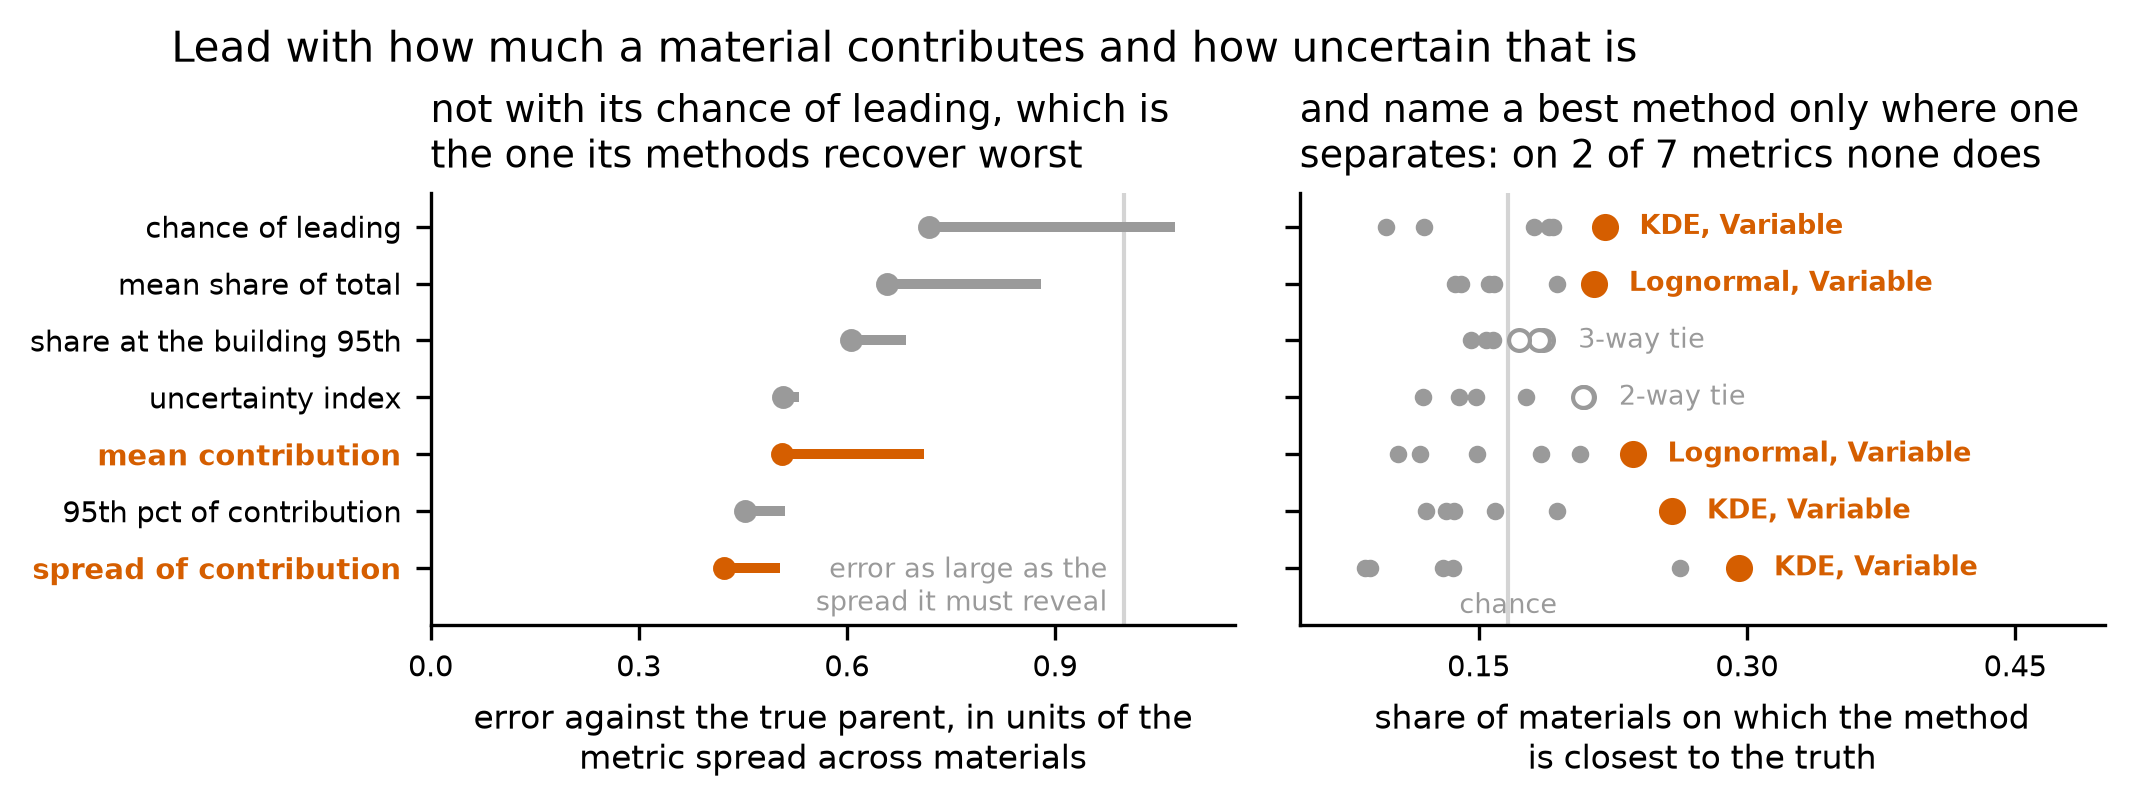
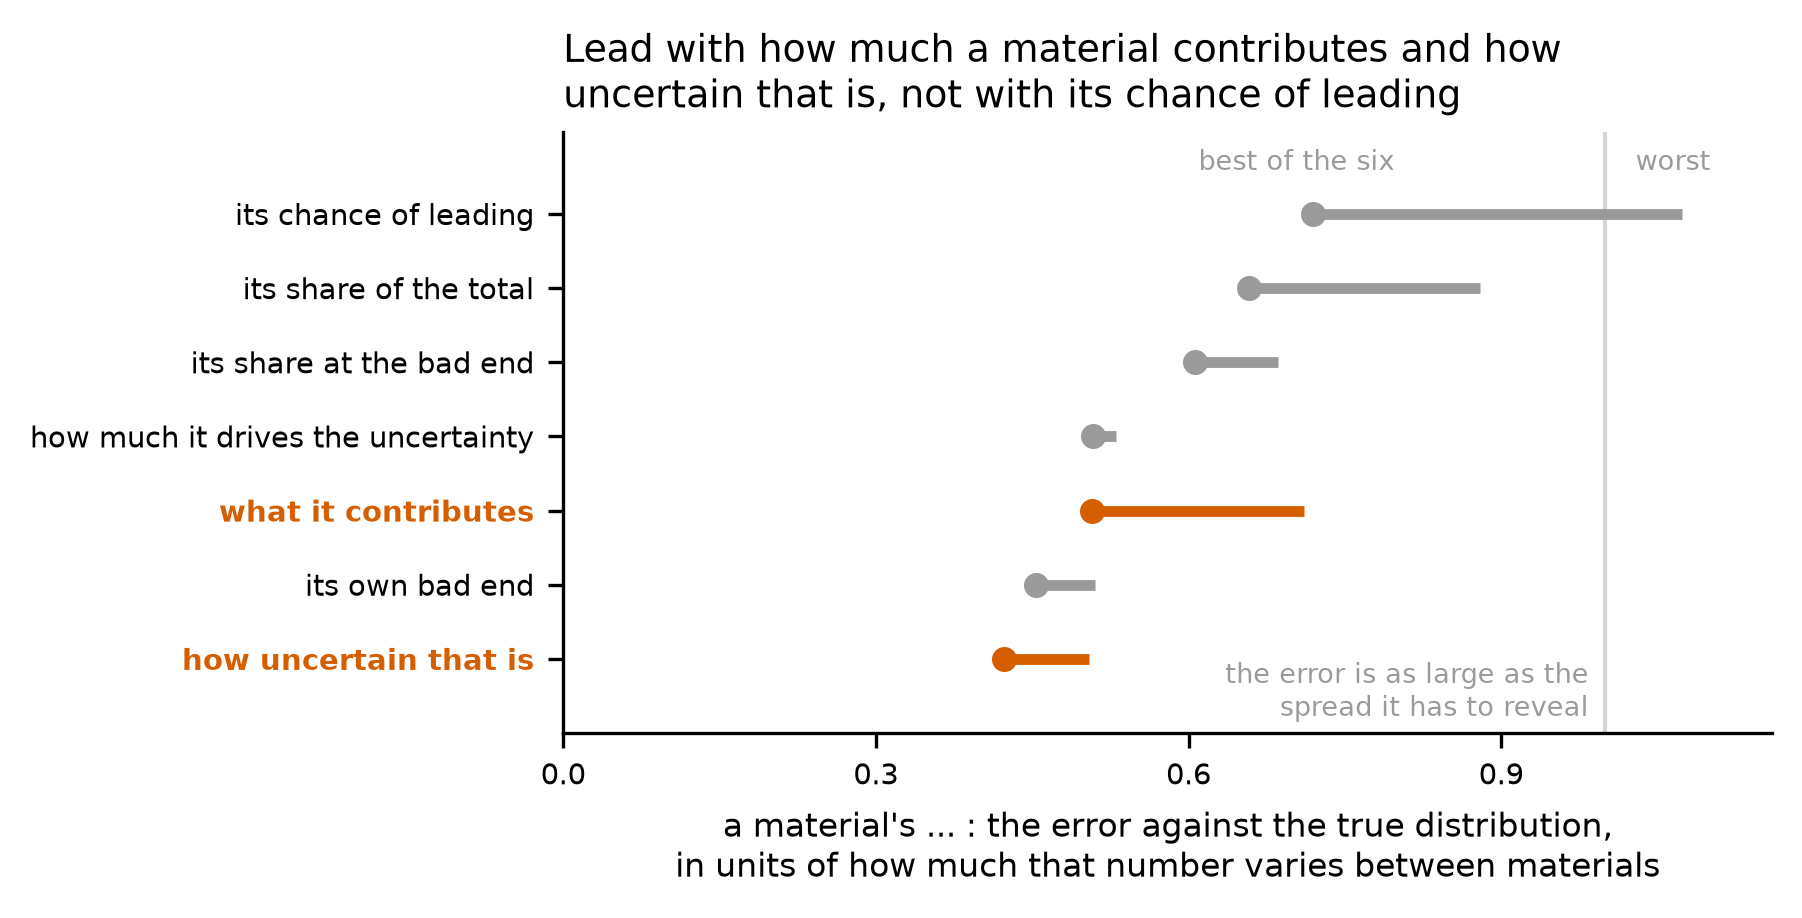
The reworked figures, and the five questions as the frame
132 of 132 analysis tables reproduce exactly across four full runs; the
compressed ones differ only in the timestamp gzip writes into its own header.
What changed is the two figures and the scorecard table's grouping, and no
committed number moved.

THE SCORECARD IS GROUPED BY THE FIVE QUESTIONS a reader of a probabilistic LCA
asks. The uncertainty index gets its own question instead of sitting inside
attribution, which is where it belongs and is the author's point. Read down the
five and the whole stage is in one figure: the two questions a designer acts on
most directly are the two the choice of method affects least, the two it affects
most are the two that rank materials against each other, and one intervention
needs no distribution at all.

ONE HUE AND CONTINUOUS VALUES. A two-ended ramp implies a midpoint the quantity
does not have, and a rank of 4 says nothing about whether that method is a hair
behind the best or twice as wrong. Each cell is now how much worse than the best
method on that row, in percent of the size of the thing being claimed.

FIGURE A IS ONE PANEL. The win-share panel is gone; it had to label two of its
seven rows as ties, and the scorecard says who is best across seventeen claims
and says it better.

diff --git a/reports/HANDOFF_stage-2g.md b/reports/HANDOFF_stage-2g.md
@@ -8,7 +8,7 @@ therefore stated in full where it is made, and a trailing `decision N` or
 `entry N` is a citation into the project's decision log or its manuscript
 discrepancy log, never the substance of the sentence. Where a file has to be
 opened, the instruction is addressed to the NEXT CLAUDE CODE SESSION and says
-so. The two figures are embedded and their captions carry the numbers, so a
+so. The three figures are embedded and their captions carry the numbers, so a
 reader whose copy does not render the images loses nothing.
 
 ---
@@ -424,49 +424,49 @@ estimate's is following the body of the data.
 
 ## The three figures
 
-![Which metric recovers the truth, and which method wins under each](../outputs/figures/CompareUQMethods_FIG_MetricChoice.png)
+![What to lead with](../outputs/figures/CompareUQMethods_FIG_MetricChoice.png)
 
 **Figure A: lead with how much a material contributes and how uncertain that is
 -- not with its chance of being the largest contributor, which is the one its
-methods recover worst.** Both panels share the same seven rows, so the
-comparison between them is positional. **Left:** for each metric, a bar from the
-best of the six methods to the worst, measured as the error against the true
-distribution divided by how much that metric varies between materials. The
-chance of being largest, at the top, runs from **0.72 to 1.07**; the grey line
-at 1.0 marks where a method's error is as large as the whole spread the metric
-exists to reveal, and only that metric crosses it. The two in orange are the
-recommendation: a material's estimated contribution (0.51 to 0.71) and the
-spread of that contribution (**0.42 to 0.50**, the best of the seven).
-**Right:** the share of materials on which each method comes closest to the
-truth, six points per row, with the leader in orange and named **only where its
-bootstrap interval clears the runner-up's**. On five of the seven it does, and
-two distinct methods lead -- the kernel estimate with market-share weights on
-three, the lognormal with market-share weights on two. **On the other two the
-top methods are tied** and the panel draws the tie as open markers rather than
-picking one; an earlier version named a leader there and counted it as a third
-method.
+methods recover worst.** For each of seven numbers a probabilistic LCA reports
+about a material, a bar from the best of the six methods to the worst, measured
+as the error against the true distribution divided by how much that number
+varies between materials. The grey rule at 1.0 is where a method's error is as
+large as the whole spread the number exists to reveal: **only the chance of
+being largest crosses it**, reaching 1.07 under a normal fit. The two in orange
+are the recommendation -- what a material contributes (0.51 to 0.71) and how
+uncertain that is (**0.42 to 0.50**, the best of the seven).
 
 ![Every claim a probabilistic LCA makes, scored for all six methods](../outputs/figures/CompareUQMethods_FIG_ClaimScorecard.png)
 
 **Figure B: no way of describing uncertainty is best for every claim a
-probabilistic LCA makes.** Seventeen claims, grouped by the kind of statement
-they belong to, each scored for all six methods as an absolute error against
-the true distributions. **Left:** each cell is that method's rank on that claim,
-1 best of six, colored by how far it sits between the best and worst on that
-row. **The strongest single method is best on 6 of the 16 claims where the six
-differ at all, and four of the six are best on something** -- the lognormal with
-equal weights takes 6, the lognormal with market-share weights 5, the kernel
-estimate with market-share weights 4, the kernel estimate with equal weights 1.
-The two normal fits are 5th and 6th on almost every row and are never first.
+probabilistic LCA makes.** Seventeen claims, grouped under the five questions a
+reader actually asks, each scored for all six methods as an absolute error
+against the true distributions. **Left:** each cell is how much worse that
+method is than the best method on that row, in percent of the size of the thing
+being claimed -- so 0 is the best method, and a reader can see at a glance
+whether second place is a hair behind or twice as wrong. **The strongest single
+method is best on 6 of the 16 claims where the six differ at all, and four of
+the six are best on something**: the lognormal with equal weights takes 6, the
+lognormal with market-share weights 5, the kernel estimate with market-share
+weights 4, the kernel estimate with equal weights 1. **Neither normal fit is
+ever first**, and both are worst or next to worst on almost every row.
 **Right:** how far apart the best and worst methods are on that claim, against
-the size of the thing being claimed. It runs from **35.5 percent** on a
-material's chance of being largest down to **0.8 percent** on whether one design
-beats another, and to **nothing at all** on what using 25 percent less of a
-material saves, where the six agree to four decimal places because that
-intervention is a deterministic fraction of the material's own contribution and
-no distributional assumption enters. That row is drawn gray and marked rather
-than ranked, because ranking six identical numbers would invite exactly the
-misreading the tied leaders in Figure A did.
+the size of the claim. It runs from **35.5 percent** on a material's chance of
+being largest and **31.0** on how often a specification cap applies, down to
+**0.8 percent** on whether one design beats another, and to **nothing at all**
+on what using 25 percent less of a material saves, where the six agree to four
+decimal places because that intervention is a deterministic fraction of the
+material's own contribution. That row is drawn blank rather than shaded,
+because ranking six identical numbers invites exactly the misreading this stage
+had to correct elsewhere.
+
+**Read down the five questions and the whole stage is in the figure**: the two
+questions a designer acts on most directly -- what will the building be, is
+this design better -- are the two the choice of method affects least; the two
+it affects most are the two that rank materials against each other; the
+uncertainty index is its own question and the methods nearly agree about it;
+and one intervention needs no distribution at all.
 
 ![The tail the criterion cannot see, and the metrics that survive it](../outputs/figures/CompareUQMethods_FIG_TailBlindSpot.png)
 
@@ -480,7 +480,7 @@ reason the sweep starts inside the data. **Left:** taken over the grid alone the
 score is flat past that rule -- **the same number, 0.262571, at all 16 distances
 beyond it**, against an uncontaminated 0.254474 -- while with the tail
 correction added two stages ago it climbs to **3.27**. **Right:** what the same
-contamination does to each reported metric, on a logarithmic scale. In orange,
+contamination does to each reported number, on a logarithmic scale. In orange,
 the shares and the rank frequency are flat beyond the rule: a share saturates,
 because once a material's draw is enormous it holds all of it. In grey, the
 spread of a material's contribution moves by a factor of **517** over the same

diff --git a/CONTEXT.md b/CONTEXT.md
@@ -484,6 +484,26 @@ biggest -- and this is that reading scored against the right answer, with the
 chance level `1 / k` printed beside it. It is the only comparison between two
 candidate metrics that carries nothing of either metric's scale.
 
+### The five questions, and why the scorecard is grouped by them
+
+A probabilistic LCA answers five questions and every result this study reports
+belongs to one of them: **magnitude**, what is the building's total; **attribution**,
+which materials contribute most to it; **information**, which materials
+contribute most to the UNCERTAINTY in it; **action**, how effective is a
+reduction strategy; and **comparison**, is this design better than that one.
+Stage 2e named them; Stage 2g's scorecard is the evidence for using them as the
+paper's frame, and it is grouped by them.
+
+**It is what makes the demotion of the rank metric legible.** "Which material is
+the largest contributor" is one of six numbers inside ONE of the five questions,
+not the study's subject. And the uncertainty index is the whole of the third
+question rather than a footnote to the second.
+
+**The cost of choosing a method, by question**, as the gap between the best and
+worst of the six at the top of each question's range: attribution 35.5 percent,
+action 31.0, magnitude 4.9, information 2.2, comparison 0.8. **The two questions
+a designer acts on most directly are the two the choice affects least.**
+
 ### The magnitude companions
 
 `eci_perc_mean`, each material's mean share of the building total, already
@@ -1097,7 +1117,7 @@ material breakdown -- the tier is not a mechanism, decision 84) and
 | `TABLE_CapReductionNormalization.csv` | NB3 | the two sums of the corrected cap rank frequencies, which are now both quantities |
 | `TABLE_CapReductionByMethod.csv` | NB3 | how often the cap binds under each method, which the old constant divisor forced to 0.25 |
 | `TABLE_FiveStatements.csv` | NB3 | **the results section in order.** The five statements a pLCA makes, each with the truth and the span across the six methods, assembled from the tables already on disk |
-| `TABLE_MetricClaimScorecard.csv` | NB3 | **the claim-by-method table.** Seventeen claims across the five kinds of statement, each an absolute error against the truth for all six methods, with each row's rank, its normalized position between best and worst, and its STAKES against an explicit scale for that row. The scale is never the best method's error |
+| `TABLE_MetricClaimScorecard.csv` | NB3 | **the claim-by-method table, and the one to print.** Seventeen claims grouped under the FIVE QUESTIONS a reader of a probabilistic LCA asks -- what is the total, which material contributes most, which material drives the uncertainty, how well does a reduction strategy work, is this design better -- each an absolute error against the truth for all six methods. `excess` is how much worse than the best method on that row in units of an explicit scale for the row, `stakes` is the largest excess in the row, and `methods_differ` is false where the six agree to within a thousandth of that scale. **The scale is never the best method's error**: dividing by that returned stakes of 6,508 percent on a row whose best method was almost exactly right |
 | `TABLE_MetricConclusions.csv` | NB3 | whether the paper's existing claims survive the companion metrics: the method ordering under each, how much worse the normal is, and how far the four non-normal methods span |
 | `TABLE_MetricWinLeaders.csv` | NB3 | whether each metric's win-share leader is separated from the runner-up or tied with it. On two of seven it is tied |
 | `TABLE_CapApplicabilityVsTruth.csv` | NB3 | how often each method finds the specification cap binding, against how often it really does. Only the two lognormals are indistinguishable from the truth |
